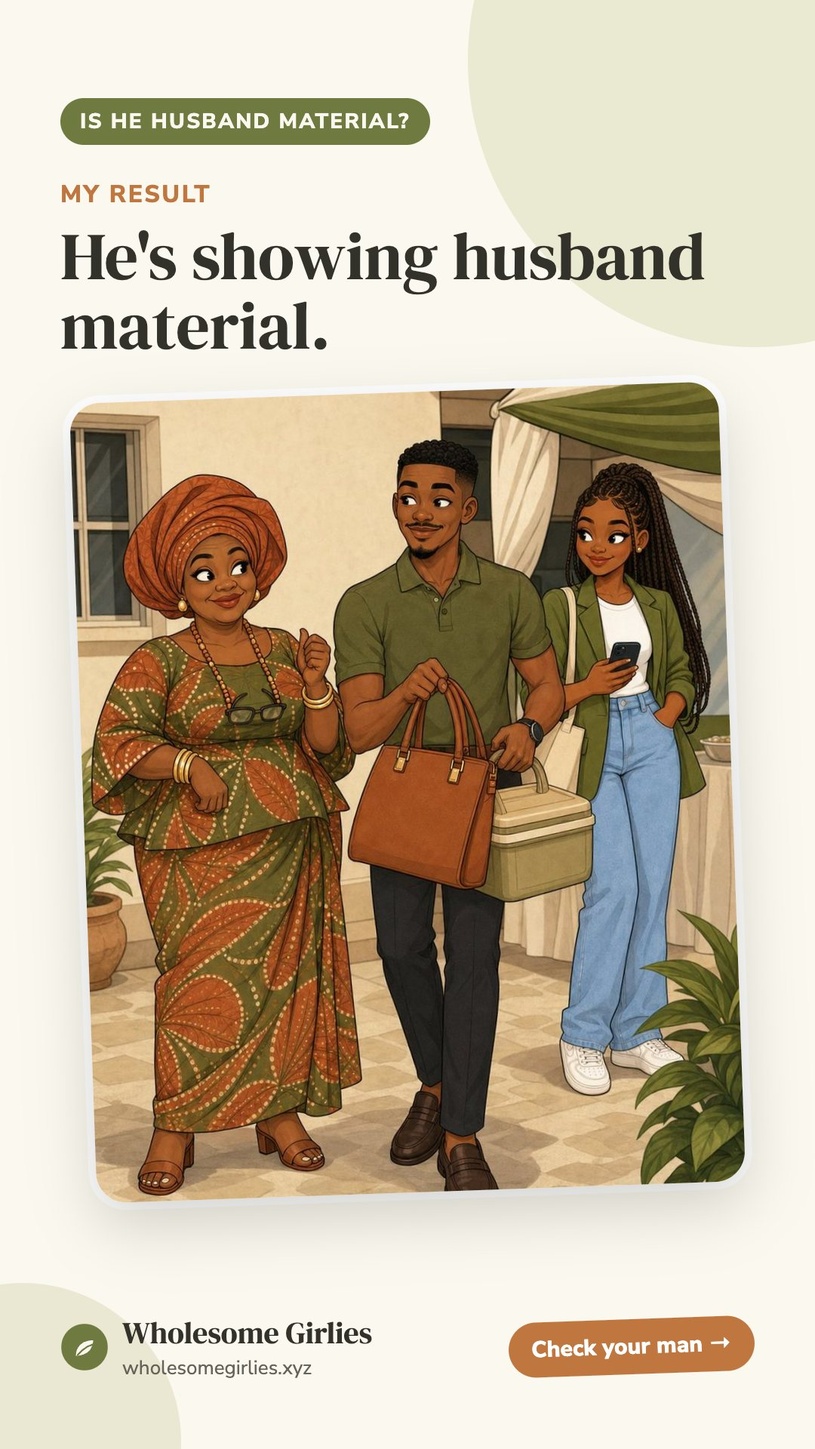
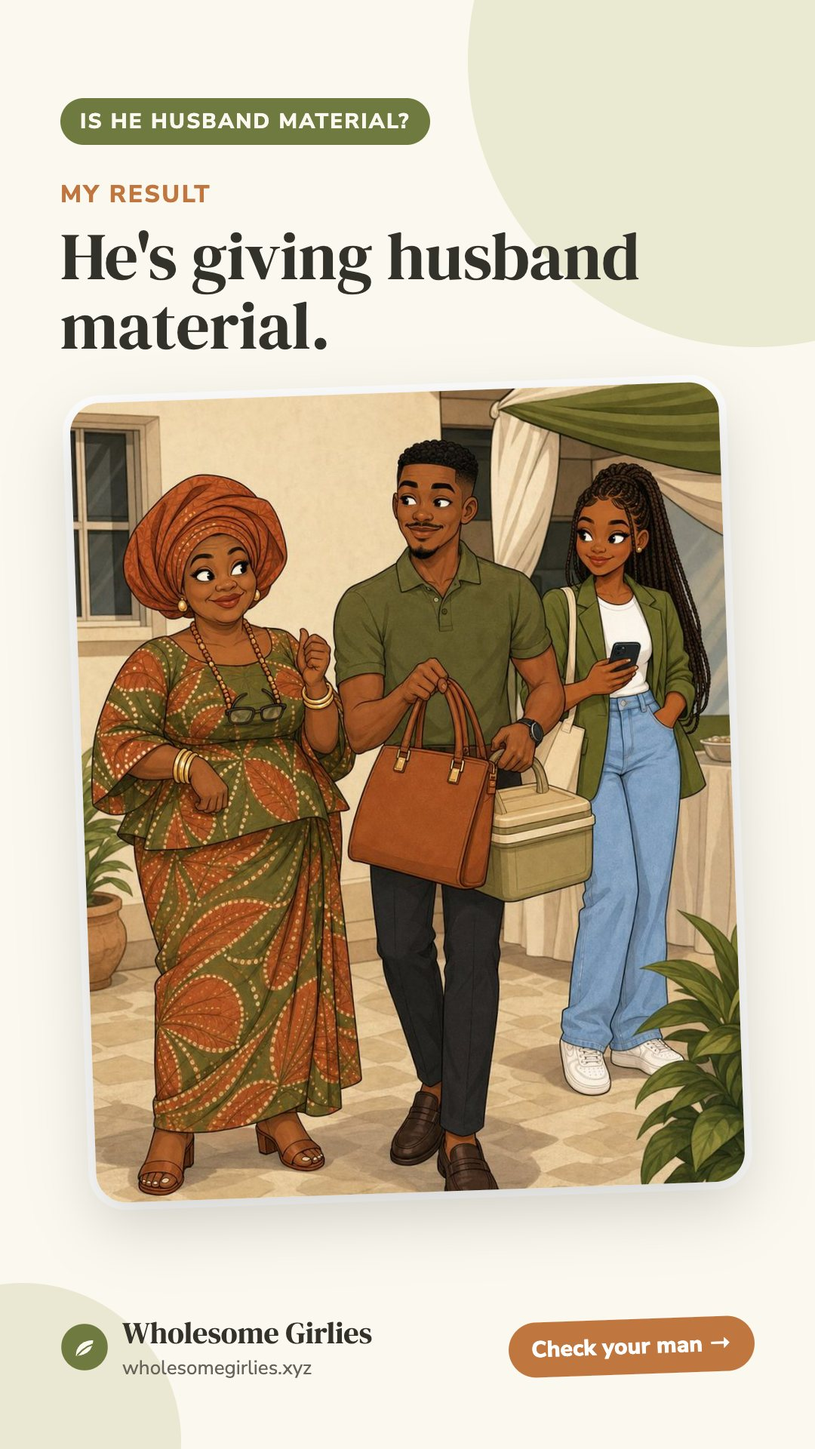
Quizzes one question at a time; "He's giving husband material"
wg-steps.js shows the Red Flag Radar, Is He Husband Material?, the Ready
for Love Quiz and the Situationship Checker one question at a time: a
count and progress bar, tap an answer to move on, Back to step back, and
the result button once the last question is answered.

The top Is He Husband Material? result reads "He's giving husband
material." on its result page, share text, link preview and Status
image. The tool page's own headline and the shortened quiz lines follow
with the re-filmed tool shorts.

Changed region(s): [[0.2444, 0.1562, 0.8861, 0.2188]]

diff --git a/assets/js/wg-result.js b/assets/js/wg-result.js
@@ -3,8 +3,8 @@
 // empty <div id="wg-result-share"></div> inside the result panel. The share link points at the result page,
 // /<stage>/tools/<tool>/result/<result>, whose link preview is the result card. Her answers never leave the page.
 (function () {
-  var DATA = {"ready-for-love-quiz": {"path": "/relationships/tools/ready-for-love-quiz", "share": "I got \"{title}\" on the Ready for Love quiz 👀 Eight questions on what you want, your standards and what you are healing from. Take it and send me yours.", "results": {"grounded": {"title": "Clear on my standards, and ready."}, "close": {"title": "Close. A little clarity and I'm there."}, "pour-into-you": {"title": "Pouring into me first."}}}, "green-red-flags-checker": {"path": "/relationships/tools/green-red-flags-checker", "share": "I checked the green and red flags. My read: \"{title}\" 👀 Tick what you are actually seeing in him and get your own read.", "results": {"healthy": {"title": "This is looking healthy."}, "watch": {"title": "Mostly good. A couple of things to watch."}, "red-outweighs": {"title": "The red is outweighing the green."}, "mixed": {"title": "A real mix. Read it carefully."}}}, "situationship-checker": {"path": "/relationships/tools/situationship-checker", "share": "I took the Situationship checker. Verdict: \"{title}\" 😅 Six questions to see if it is a relationship or a situationship. Take it and send me yours.", "results": {"going-somewhere": {"title": "This is going somewhere."}, "undefined": {"title": "Undefined. I deserve a straight answer."}, "choose-you": {"title": "Situationship. I'm choosing me."}}}, "red-flag-radar": {"path": "/relationships/tools/red-flag-radar", "share": "I got \"{title}\" on the Red Flag Radar 🚩 He goes quiet for three days. Every ex was crazy. Green flag, let's talk or red flag? Make your calls and send me yours.", "results": {"sharp": {"title": "My radar is sharp."}, "soft": {"title": "I give him the benefit of the doubt."}, "strict": {"title": "I cut first and ask questions later."}, "warming-up": {"title": "My radar is still warming up."}}}, "is-he-husband-material": {"path": "/relationships/tools/is-he-husband-material", "share": "I got \"{title}\" on Is He Husband Material? 👀 Does his word match what he does? Can he say sorry? Check your man and send me your result.", "results": {"showing-it": {"title": "He's showing husband material."}, "promising": {"title": "Promising, with questions to ask."}, "not-yet": {"title": "Not husband material yet."}}}};
-  var V = "20261008a";
+  var DATA = {"ready-for-love-quiz": {"path": "/relationships/tools/ready-for-love-quiz", "share": "I got \"{title}\" on the Ready for Love quiz 👀 Eight questions on what you want, your standards and what you are healing from. Take it and send me yours.", "results": {"grounded": {"title": "Clear on my standards, and ready."}, "close": {"title": "Close. A little clarity and I'm there."}, "pour-into-you": {"title": "Pouring into me first."}}}, "green-red-flags-checker": {"path": "/relationships/tools/green-red-flags-checker", "share": "I checked the green and red flags. My read: \"{title}\" 👀 Tick what you are actually seeing in him and get your own read.", "results": {"healthy": {"title": "This is looking healthy."}, "watch": {"title": "Mostly good. A couple of things to watch."}, "red-outweighs": {"title": "The red is outweighing the green."}, "mixed": {"title": "A real mix. Read it carefully."}}}, "situationship-checker": {"path": "/relationships/tools/situationship-checker", "share": "I took the Situationship checker. Verdict: \"{title}\" 😅 Six questions to see if it is a relationship or a situationship. Take it and send me yours.", "results": {"going-somewhere": {"title": "This is going somewhere."}, "undefined": {"title": "Undefined. I deserve a straight answer."}, "choose-you": {"title": "Situationship. I'm choosing me."}}}, "red-flag-radar": {"path": "/relationships/tools/red-flag-radar", "share": "I got \"{title}\" on the Red Flag Radar 🚩 He goes quiet for three days. Every ex was crazy. Green flag, let's talk or red flag? Make your calls and send me yours.", "results": {"sharp": {"title": "My radar is sharp."}, "soft": {"title": "I give him the benefit of the doubt."}, "strict": {"title": "I cut first and ask questions later."}, "warming-up": {"title": "My radar is still warming up."}}}, "is-he-husband-material": {"path": "/relationships/tools/is-he-husband-material", "share": "I got \"{title}\" on Is He Husband Material? 👀 Does his word match what he does? Can he say sorry? Check your man and send me your result.", "results": {"showing-it": {"title": "He's giving husband material."}, "promising": {"title": "Promising, with questions to ask."}, "not-yet": {"title": "Not husband material yet."}}}};
+  var V = "20261009a";
   function tool() { var m = location.pathname.match(/\/tools\/([^\/?#.]+)/); return m && m[1]; }
   function push(ev, id) { window.dataLayer = window.dataLayer || []; window.dataLayer.push({ event: ev, share_item: id, share_surface: "result" }); }
   window.wgShowResult = function (type) {

diff --git a/relationships/tools/is-he-husband-material/result/showing-it.html b/relationships/tools/is-he-husband-material/result/showing-it.html
@@ -11,23 +11,23 @@ j=d.createElement(s),dl=l!='dataLayer'?'&l='+l:'';j.async=true;j.src=
 'https://www.googletagmanager.com/gtm.js?id='+i+dl;f.parentNode.insertBefore(j,f);
 })(window,document,'script','dataLayer','GTM-KW443M88');</script>
 <!-- End Google Tag Manager -->
-<title>My Is He Husband Material? result: He&#x27;s showing husband material. | Wholesome Girlies</title>
+<title>My Is He Husband Material? result: He&#x27;s giving husband material. | Wholesome Girlies</title>
 <meta name="robots" content="noindex, nofollow">
-<meta name="description" content="He&#x27;s showing husband material. What would yours say? Take the Is He Husband Material? on Wholesome Girlies.">
+<meta name="description" content="He&#x27;s giving husband material. What would yours say? Take the Is He Husband Material? on Wholesome Girlies.">
 <link rel="canonical" href="https://wholesomegirlies.xyz/relationships/tools/is-he-husband-material/result/showing-it">
 <meta property="og:type" content="website">
 <meta property="og:site_name" content="Wholesome Girlies">
-<meta property="og:title" content="My Is He Husband Material? result: He&#x27;s showing husband material.">
+<meta property="og:title" content="My Is He Husband Material? result: He&#x27;s giving husband material.">
 <meta property="og:description" content="What would yours say? Take the Is He Husband Material? on Wholesome Girlies.">
 <meta property="og:url" content="https://wholesomegirlies.xyz/relationships/tools/is-he-husband-material/result/showing-it">
-<meta property="og:image" content="https://wholesomegirlies.xyz/assets/img/results/is-he-husband-material/showing-it.jpg?v=20261008a">
+<meta property="og:image" content="https://wholesomegirlies.xyz/assets/img/results/is-he-husband-material/showing-it.jpg?v=20261009a">
 <meta property="og:image:width" content="1200">
 <meta property="og:image:height" content="630">
 <meta name="twitter:card" content="summary_large_image">
 <meta name="twitter:site" content="@wgirlieshq">
-<meta name="twitter:title" content="My Is He Husband Material? result: He&#x27;s showing husband material.">
+<meta name="twitter:title" content="My Is He Husband Material? result: He&#x27;s giving husband material.">
 <meta name="twitter:description" content="What would yours say? Take the Is He Husband Material? on Wholesome Girlies.">
-<meta name="twitter:image" content="https://wholesomegirlies.xyz/assets/img/results/is-he-husband-material/showing-it.jpg?v=20261008a">
+<meta name="twitter:image" content="https://wholesomegirlies.xyz/assets/img/results/is-he-husband-material/showing-it.jpg?v=20261009a">
 <link rel="preconnect" href="https://fonts.googleapis.com">
 <link rel="preconnect" href="https://fonts.gstatic.com" crossorigin>
 <link rel="stylesheet" href="/assets/css/styles.css?v=20261009c">
@@ -74,7 +74,7 @@ height="0" width="0" style="display:none;visibility:hidden"></iframe></noscript>
   <div class="wrap narrow">
     <div class="breadcrumb"><a href="/">Home</a> / <a href="/relationships/">Relationships</a> / <a href="/relationships/tools/is-he-husband-material">Is He Husband Material?</a></div>
     <p class="eyebrow">A shared result · Is He Husband Material?</p>
-    <h1>He&#x27;s showing husband material.</h1>
+    <h1>He&#x27;s giving husband material.</h1>
     <p class="muted">From what you have seen, he is consistent, respectful and serious about a future with you. Keep watching over time, because character shows most under pressure, and talk through the big things before you commit.</p>
   </div>
 </section>
@@ -85,7 +85,7 @@ height="0" width="0" style="display:none;visibility:hidden"></iframe></noscript>
     <p class="lead">Someone shared their result from the Is He Husband Material?. It takes a couple of minutes, and what you answer stays on your phone.</p>
     <a class="btn btn-primary" href="/relationships/tools/is-he-husband-material?ref=result">Check your man &rarr;</a>
     <p class="sub">Pass it on</p>
-    <div class="wg-share" data-share-id="is-he-husband-material:showing-it" data-share-surface="result-page" data-share-path="/relationships/tools/is-he-husband-material/result/showing-it" data-share-text="I got &quot;He&#x27;s showing husband material&quot; on Is He Husband Material? 👀 Does his word match what he does? Can he say sorry? Check your man and send me your result." data-share-align="center"></div>
+    <div class="wg-share" data-share-id="is-he-husband-material:showing-it" data-share-surface="result-page" data-share-path="/relationships/tools/is-he-husband-material/result/showing-it" data-share-text="I got &quot;He&#x27;s giving husband material&quot; on Is He Husband Material? 👀 Does his word match what he does? Can he say sorry? Check your man and send me your result." data-share-align="center"></div>
     <p class="muted" style="margin-top:28px;font-size:.9rem;">This is a reflection tool. It runs in your browser, and nothing anyone answers is saved or sent.</p>
   </div>
 </section>

diff --git a/assets/js/wg-steps.js b/assets/js/wg-steps.js
@@ -1,0 +1,76 @@
+/* One question at a time on the quizzes and games.
+   A .tool-app with data-steps="<question selector>" shows its questions one by one: a count and progress bar on top,
+   tap an answer and the next question slides in, Back steps back. The result button shows once the last question is
+   answered. Without JavaScript every question shows, as before. A "Start over" button inside the tool goes back to
+   question 1. Load it with defer after the page's own script, because some quizzes build their questions in script. */
+(function (w, d) {
+  var CSS =
+    '.st-head{display:flex;align-items:center;gap:12px;margin:0 0 16px}' +
+    '.st-count{flex:none;font-weight:800;font-size:.9rem}' +
+    '.st-bar{flex:1;height:12px;border-radius:8px;background:#fff;border:1.5px solid var(--ink,#33322A);overflow:hidden}' +
+    '.st-bar span{display:block;height:100%;width:0;background:var(--s,#6E7A3F);transition:width .3s ease}' +
+    '.st-q{display:none}.st-q.st-on{display:block;animation:stIn .28s ease}' +
+    '@keyframes stIn{from{opacity:0;transform:translateX(18px)}to{opacity:1;transform:none}}' +
+    '@media (prefers-reduced-motion:reduce){.st-q.st-on{animation:none}.st-bar span{transition:none}}' +
+    '.st-q .qtext{display:block;font-size:1.12rem;line-height:1.4;margin:0 0 14px;min-height:3.2em}' +
+    '.st-nav{display:flex;align-items:center;margin:16px 0 0}' +
+    '.st-back{background:none;border:0;font:inherit;font-weight:800;color:var(--ink,#33322A);cursor:pointer;padding:8px 0}' +
+    '.st-back[disabled]{visibility:hidden}' +
+    '.st-hide{display:none!important}' +
+    '.rq.st-q .rq-opts{flex-direction:column;align-items:stretch}.rq.st-q .rq-opts label{text-align:center;padding:12px}';
+
+  function start(app) {
+    var qs = [].slice.call(d.querySelectorAll(app.getAttribute('data-steps')));
+    var go = app.querySelector('.btn-primary');
+    if (qs.length < 2 || !go) return;
+    if (!d.getElementById('wg-steps-css')) {
+      var css = d.createElement('style'); css.id = 'wg-steps-css'; css.textContent = CSS; d.head.appendChild(css);
+    }
+    var goRow = go.parentNode !== app ? go.parentNode : go;
+    var i = 0, total = qs.length;
+    qs.forEach(function (q) {
+      q.classList.add('st-q');
+      var t = q.querySelector('.qtext');
+      if (t) t.textContent = t.textContent.replace(/^\d+\.\s*/, '');
+    });
+    var head = d.createElement('div');
+    head.className = 'st-head';
+    head.innerHTML = '<span class="st-count" aria-live="polite"></span><span class="st-bar" aria-hidden="true"><span></span></span>';
+    qs[0].parentNode.insertBefore(head, qs[0]);
+    var nav = d.createElement('div');
+    nav.className = 'st-nav';
+    nav.innerHTML = '<button type="button" class="st-back">&larr; Back</button>';
+    goRow.parentNode.insertBefore(nav, goRow);
+    var back = nav.querySelector('.st-back');
+
+    function answered(q) { return !!q.querySelector('input:checked'); }
+    function show(k, scroll) {
+      i = Math.max(0, Math.min(total - 1, k));
+      qs.forEach(function (q, n) { q.classList.toggle('st-on', n === i); });
+      head.querySelector('.st-count').textContent = 'Question ' + (i + 1) + ' of ' + total;
+      head.querySelector('.st-bar span').style.width = ((i + (answered(qs[i]) ? 1 : 0)) / total * 100) + '%';
+      back.disabled = i === 0;
+      goRow.classList.toggle('st-hide', !(i === total - 1 && answered(qs[i])));
+      if (scroll) {
+        var top = head.getBoundingClientRect().top + w.scrollY - 110;
+        if (Math.abs(w.scrollY - top) > 60) w.scrollTo({ top: top, behavior: 'smooth' });
+      }
+    }
+    app.addEventListener('change', function (e) {
+      var q = e.target.closest && e.target.closest('.st-q');
+      if (!q || qs.indexOf(q) !== i) return;
+      show(i);
+      var from = i;
+      if (from < total - 1) setTimeout(function () { if (i === from) show(from + 1, true); }, 380);
+    });
+    back.addEventListener('click', function () { show(i - 1, true); });
+    app.addEventListener('click', function (e) {
+      var b = e.target.closest && e.target.closest('button');
+      if (b && /start over/i.test(b.textContent)) setTimeout(function () { show(0, true); }, 0);
+    });
+    show(0);
+  }
+
+  function init() { [].forEach.call(d.querySelectorAll('.tool-app[data-steps]'), start); }
+  if (d.readyState === 'loading') d.addEventListener('DOMContentLoaded', init); else init();
+})(window, document);

diff --git a/relationships/tools/green-red-flags-checker/result/red-outweighs.html b/relationships/tools/green-red-flags-checker/result/red-outweighs.html
@@ -20,14 +20,14 @@ j=d.createElement(s),dl=l!='dataLayer'?'&l='+l:'';j.async=true;j.src=
 <meta property="og:title" content="My Green and Red Flags checker result: The red is outweighing the green.">
 <meta property="og:description" content="What would yours say? Take the Green and Red Flags checker on Wholesome Girlies.">
 <meta property="og:url" content="https://wholesomegirlies.xyz/relationships/tools/green-red-flags-checker/result/red-outweighs">
-<meta property="og:image" content="https://wholesomegirlies.xyz/assets/img/results/green-red-flags-checker/red-outweighs.jpg?v=20261008a">
+<meta property="og:image" content="https://wholesomegirlies.xyz/assets/img/results/green-red-flags-checker/red-outweighs.jpg?v=20261009a">
 <meta property="og:image:width" content="1200">
 <meta property="og:image:height" content="630">
 <meta name="twitter:card" content="summary_large_image">
 <meta name="twitter:site" content="@wgirlieshq">
 <meta name="twitter:title" content="My Green and Red Flags checker result: The red is outweighing the green.">
 <meta name="twitter:description" content="What would yours say? Take the Green and Red Flags checker on Wholesome Girlies.">
-<meta name="twitter:image" content="https://wholesomegirlies.xyz/assets/img/results/green-red-flags-checker/red-outweighs.jpg?v=20261008a">
+<meta name="twitter:image" content="https://wholesomegirlies.xyz/assets/img/results/green-red-flags-checker/red-outweighs.jpg?v=20261009a">
 <link rel="preconnect" href="https://fonts.googleapis.com">
 <link rel="preconnect" href="https://fonts.gstatic.com" crossorigin>
 <link rel="stylesheet" href="/assets/css/styles.css?v=20261009c">

diff --git a/relationships/tools/green-red-flags-checker/result/watch.html b/relationships/tools/green-red-flags-checker/result/watch.html
@@ -20,14 +20,14 @@ j=d.createElement(s),dl=l!='dataLayer'?'&l='+l:'';j.async=true;j.src=
 <meta property="og:title" content="My Green and Red Flags checker result: Mostly good. A couple of things to watch.">
 <meta property="og:description" content="What would yours say? Take the Green and Red Flags checker on Wholesome Girlies.">
 <meta property="og:url" content="https://wholesomegirlies.xyz/relationships/tools/green-red-flags-checker/result/watch">
-<meta property="og:image" content="https://wholesomegirlies.xyz/assets/img/results/green-red-flags-checker/watch.jpg?v=20261008a">
+<meta property="og:image" content="https://wholesomegirlies.xyz/assets/img/results/green-red-flags-checker/watch.jpg?v=20261009a">
 <meta property="og:image:width" content="1200">
 <meta property="og:image:height" content="630">
 <meta name="twitter:card" content="summary_large_image">
 <meta name="twitter:site" content="@wgirlieshq">
 <meta name="twitter:title" content="My Green and Red Flags checker result: Mostly good. A couple of things to watch.">
 <meta name="twitter:description" content="What would yours say? Take the Green and Red Flags checker on Wholesome Girlies.">
-<meta name="twitter:image" content="https://wholesomegirlies.xyz/assets/img/results/green-red-flags-checker/watch.jpg?v=20261008a">
+<meta name="twitter:image" content="https://wholesomegirlies.xyz/assets/img/results/green-red-flags-checker/watch.jpg?v=20261009a">
 <link rel="preconnect" href="https://fonts.googleapis.com">
 <link rel="preconnect" href="https://fonts.gstatic.com" crossorigin>
 <link rel="stylesheet" href="/assets/css/styles.css?v=20261009c">

diff --git a/relationships/tools/is-he-husband-material/result/promising.html b/relationships/tools/is-he-husband-material/result/promising.html
@@ -20,14 +20,14 @@ j=d.createElement(s),dl=l!='dataLayer'?'&l='+l:'';j.async=true;j.src=
 <meta property="og:title" content="My Is He Husband Material? result: Promising, with questions to ask.">
 <meta property="og:description" content="What would yours say? Take the Is He Husband Material? on Wholesome Girlies.">
 <meta property="og:url" content="https://wholesomegirlies.xyz/relationships/tools/is-he-husband-material/result/promising">
-<meta property="og:image" content="https://wholesomegirlies.xyz/assets/img/results/is-he-husband-material/promising.jpg?v=20261008a">
+<meta property="og:image" content="https://wholesomegirlies.xyz/assets/img/results/is-he-husband-material/promising.jpg?v=20261009a">
 <meta property="og:image:width" content="1200">
 <meta property="og:image:height" content="630">
 <meta name="twitter:card" content="summary_large_image">
 <meta name="twitter:site" content="@wgirlieshq">
 <meta name="twitter:title" content="My Is He Husband Material? result: Promising, with questions to ask.">
 <meta name="twitter:description" content="What would yours say? Take the Is He Husband Material? on Wholesome Girlies.">
-<meta name="twitter:image" content="https://wholesomegirlies.xyz/assets/img/results/is-he-husband-material/promising.jpg?v=20261008a">
+<meta name="twitter:image" content="https://wholesomegirlies.xyz/assets/img/results/is-he-husband-material/promising.jpg?v=20261009a">
 <link rel="preconnect" href="https://fonts.googleapis.com">
 <link rel="preconnect" href="https://fonts.gstatic.com" crossorigin>
 <link rel="stylesheet" href="/assets/css/styles.css?v=20261009c">

diff --git a/relationships/tools/situationship-checker/result/going-somewhere.html b/relationships/tools/situationship-checker/result/going-somewhere.html
@@ -20,14 +20,14 @@ j=d.createElement(s),dl=l!='dataLayer'?'&l='+l:'';j.async=true;j.src=
 <meta property="og:title" content="My Situationship checker result: This is going somewhere.">
 <meta property="og:description" content="What would yours say? Take the Situationship checker on Wholesome Girlies.">
 <meta property="og:url" content="https://wholesomegirlies.xyz/relationships/tools/situationship-checker/result/going-somewhere">
-<meta property="og:image" content="https://wholesomegirlies.xyz/assets/img/results/situationship-checker/going-somewhere.jpg?v=20261008a">
+<meta property="og:image" content="https://wholesomegirlies.xyz/assets/img/results/situationship-checker/going-somewhere.jpg?v=20261009a">
 <meta property="og:image:width" content="1200">
 <meta property="og:image:height" content="630">
 <meta name="twitter:card" content="summary_large_image">
 <meta name="twitter:site" content="@wgirlieshq">
 <meta name="twitter:title" content="My Situationship checker result: This is going somewhere.">
 <meta name="twitter:description" content="What would yours say? Take the Situationship checker on Wholesome Girlies.">
-<meta name="twitter:image" content="https://wholesomegirlies.xyz/assets/img/results/situationship-checker/going-somewhere.jpg?v=20261008a">
+<meta name="twitter:image" content="https://wholesomegirlies.xyz/assets/img/results/situationship-checker/going-somewhere.jpg?v=20261009a">
 <link rel="preconnect" href="https://fonts.googleapis.com">
 <link rel="preconnect" href="https://fonts.gstatic.com" crossorigin>
 <link rel="stylesheet" href="/assets/css/styles.css?v=20261009c">

diff --git a/relationships/tools/situationship-checker/result/undefined.html b/relationships/tools/situationship-checker/result/undefined.html
@@ -20,14 +20,14 @@ j=d.createElement(s),dl=l!='dataLayer'?'&l='+l:'';j.async=true;j.src=
 <meta property="og:title" content="My Situationship checker result: Undefined. I deserve a straight answer.">
 <meta property="og:description" content="What would yours say? Take the Situationship checker on Wholesome Girlies.">
 <meta property="og:url" content="https://wholesomegirlies.xyz/relationships/tools/situationship-checker/result/undefined">
-<meta property="og:image" content="https://wholesomegirlies.xyz/assets/img/results/situationship-checker/undefined.jpg?v=20261008a">
+<meta property="og:image" content="https://wholesomegirlies.xyz/assets/img/results/situationship-checker/undefined.jpg?v=20261009a">
 <meta property="og:image:width" content="1200">
 <meta property="og:image:height" content="630">
 <meta name="twitter:card" content="summary_large_image">
 <meta name="twitter:site" content="@wgirlieshq">
 <meta name="twitter:title" content="My Situationship checker result: Undefined. I deserve a straight answer.">
 <meta name="twitter:description" content="What would yours say? Take the Situationship checker on Wholesome Girlies.">
-<meta name="twitter:image" content="https://wholesomegirlies.xyz/assets/img/results/situationship-checker/undefined.jpg?v=20261008a">
+<meta name="twitter:image" content="https://wholesomegirlies.xyz/assets/img/results/situationship-checker/undefined.jpg?v=20261009a">
 <link rel="preconnect" href="https://fonts.googleapis.com">
 <link rel="preconnect" href="https://fonts.gstatic.com" crossorigin>
 <link rel="stylesheet" href="/assets/css/styles.css?v=20261009c">

diff --git a/relationships/tools/situationship-checker/result/choose-you.html b/relationships/tools/situationship-checker/result/choose-you.html
@@ -20,14 +20,14 @@ j=d.createElement(s),dl=l!='dataLayer'?'&l='+l:'';j.async=true;j.src=
 <meta property="og:title" content="My Situationship checker result: Situationship. I&#x27;m choosing me.">
 <meta property="og:description" content="What would yours say? Take the Situationship checker on Wholesome Girlies.">
 <meta property="og:url" content="https://wholesomegirlies.xyz/relationships/tools/situationship-checker/result/choose-you">
-<meta property="og:image" content="https://wholesomegirlies.xyz/assets/img/results/situationship-checker/choose-you.jpg?v=20261008a">
+<meta property="og:image" content="https://wholesomegirlies.xyz/assets/img/results/situationship-checker/choose-you.jpg?v=20261009a">
 <meta property="og:image:width" content="1200">
 <meta property="og:image:height" content="630">
 <meta name="twitter:card" content="summary_large_image">
 <meta name="twitter:site" content="@wgirlieshq">
 <meta name="twitter:title" content="My Situationship checker result: Situationship. I&#x27;m choosing me.">
 <meta name="twitter:description" content="What would yours say? Take the Situationship checker on Wholesome Girlies.">
-<meta name="twitter:image" content="https://wholesomegirlies.xyz/assets/img/results/situationship-checker/choose-you.jpg?v=20261008a">
+<meta name="twitter:image" content="https://wholesomegirlies.xyz/assets/img/results/situationship-checker/choose-you.jpg?v=20261009a">
 <link rel="preconnect" href="https://fonts.googleapis.com">
 <link rel="preconnect" href="https://fonts.gstatic.com" crossorigin>
 <link rel="stylesheet" href="/assets/css/styles.css?v=20261009c">

diff --git a/relationships/tools/green-red-flags-checker/result/mixed.html b/relationships/tools/green-red-flags-checker/result/mixed.html
@@ -20,14 +20,14 @@ j=d.createElement(s),dl=l!='dataLayer'?'&l='+l:'';j.async=true;j.src=
 <meta property="og:title" content="My Green and Red Flags checker result: A real mix. Read it carefully.">
 <meta property="og:description" content="What would yours say? Take the Green and Red Flags checker on Wholesome Girlies.">
 <meta property="og:url" content="https://wholesomegirlies.xyz/relationships/tools/green-red-flags-checker/result/mixed">
-<meta property="og:image" content="https://wholesomegirlies.xyz/assets/img/results/green-red-flags-checker/mixed.jpg?v=20261008a">
+<meta property="og:image" content="https://wholesomegirlies.xyz/assets/img/results/green-red-flags-checker/mixed.jpg?v=20261009a">
 <meta property="og:image:width" content="1200">
 <meta property="og:image:height" content="630">
 <meta name="twitter:card" content="summary_large_image">
 <meta name="twitter:site" content="@wgirlieshq">
 <meta name="twitter:title" content="My Green and Red Flags checker result: A real mix. Read it carefully.">
 <meta name="twitter:description" content="What would yours say? Take the Green and Red Flags checker on Wholesome Girlies.">
-<meta name="twitter:image" content="https://wholesomegirlies.xyz/assets/img/results/green-red-flags-checker/mixed.jpg?v=20261008a">
+<meta name="twitter:image" content="https://wholesomegirlies.xyz/assets/img/results/green-red-flags-checker/mixed.jpg?v=20261009a">
 <link rel="preconnect" href="https://fonts.googleapis.com">
 <link rel="preconnect" href="https://fonts.gstatic.com" crossorigin>
 <link rel="stylesheet" href="/assets/css/styles.css?v=20261009c">

diff --git a/relationships/tools/green-red-flags-checker/result/healthy.html b/relationships/tools/green-red-flags-checker/result/healthy.html
@@ -20,14 +20,14 @@ j=d.createElement(s),dl=l!='dataLayer'?'&l='+l:'';j.async=true;j.src=
 <meta property="og:title" content="My Green and Red Flags checker result: This is looking healthy.">
 <meta property="og:description" content="What would yours say? Take the Green and Red Flags checker on Wholesome Girlies.">
 <meta property="og:url" content="https://wholesomegirlies.xyz/relationships/tools/green-red-flags-checker/result/healthy">
-<meta property="og:image" content="https://wholesomegirlies.xyz/assets/img/results/green-red-flags-checker/healthy.jpg?v=20261008a">
+<meta property="og:image" content="https://wholesomegirlies.xyz/assets/img/results/green-red-flags-checker/healthy.jpg?v=20261009a">
 <meta property="og:image:width" content="1200">
 <meta property="og:image:height" content="630">
 <meta name="twitter:card" content="summary_large_image">
 <meta name="twitter:site" content="@wgirlieshq">
 <meta name="twitter:title" content="My Green and Red Flags checker result: This is looking healthy.">
 <meta name="twitter:description" content="What would yours say? Take the Green and Red Flags checker on Wholesome Girlies.">
-<meta name="twitter:image" content="https://wholesomegirlies.xyz/assets/img/results/green-red-flags-checker/healthy.jpg?v=20261008a">
+<meta name="twitter:image" content="https://wholesomegirlies.xyz/assets/img/results/green-red-flags-checker/healthy.jpg?v=20261009a">
 <link rel="preconnect" href="https://fonts.googleapis.com">
 <link rel="preconnect" href="https://fonts.gstatic.com" crossorigin>
 <link rel="stylesheet" href="/assets/css/styles.css?v=20261009c">

diff --git a/relationships/tools/is-he-husband-material/result/not-yet.html b/relationships/tools/is-he-husband-material/result/not-yet.html
@@ -20,14 +20,14 @@ j=d.createElement(s),dl=l!='dataLayer'?'&l='+l:'';j.async=true;j.src=
 <meta property="og:title" content="My Is He Husband Material? result: Not husband material yet.">
 <meta property="og:description" content="What would yours say? Take the Is He Husband Material? on Wholesome Girlies.">
 <meta property="og:url" content="https://wholesomegirlies.xyz/relationships/tools/is-he-husband-material/result/not-yet">
-<meta property="og:image" content="https://wholesomegirlies.xyz/assets/img/results/is-he-husband-material/not-yet.jpg?v=20261008a">
+<meta property="og:image" content="https://wholesomegirlies.xyz/assets/img/results/is-he-husband-material/not-yet.jpg?v=20261009a">
 <meta property="og:image:width" content="1200">
 <meta property="og:image:height" content="630">
 <meta name="twitter:card" content="summary_large_image">
 <meta name="twitter:site" content="@wgirlieshq">
 <meta name="twitter:title" content="My Is He Husband Material? result: Not husband material yet.">
 <meta name="twitter:description" content="What would yours say? Take the Is He Husband Material? on Wholesome Girlies.">
-<meta name="twitter:image" content="https://wholesomegirlies.xyz/assets/img/results/is-he-husband-material/not-yet.jpg?v=20261008a">
+<meta name="twitter:image" content="https://wholesomegirlies.xyz/assets/img/results/is-he-husband-material/not-yet.jpg?v=20261009a">
 <link rel="preconnect" href="https://fonts.googleapis.com">
 <link rel="preconnect" href="https://fonts.gstatic.com" crossorigin>
 <link rel="stylesheet" href="/assets/css/styles.css?v=20261009c">
